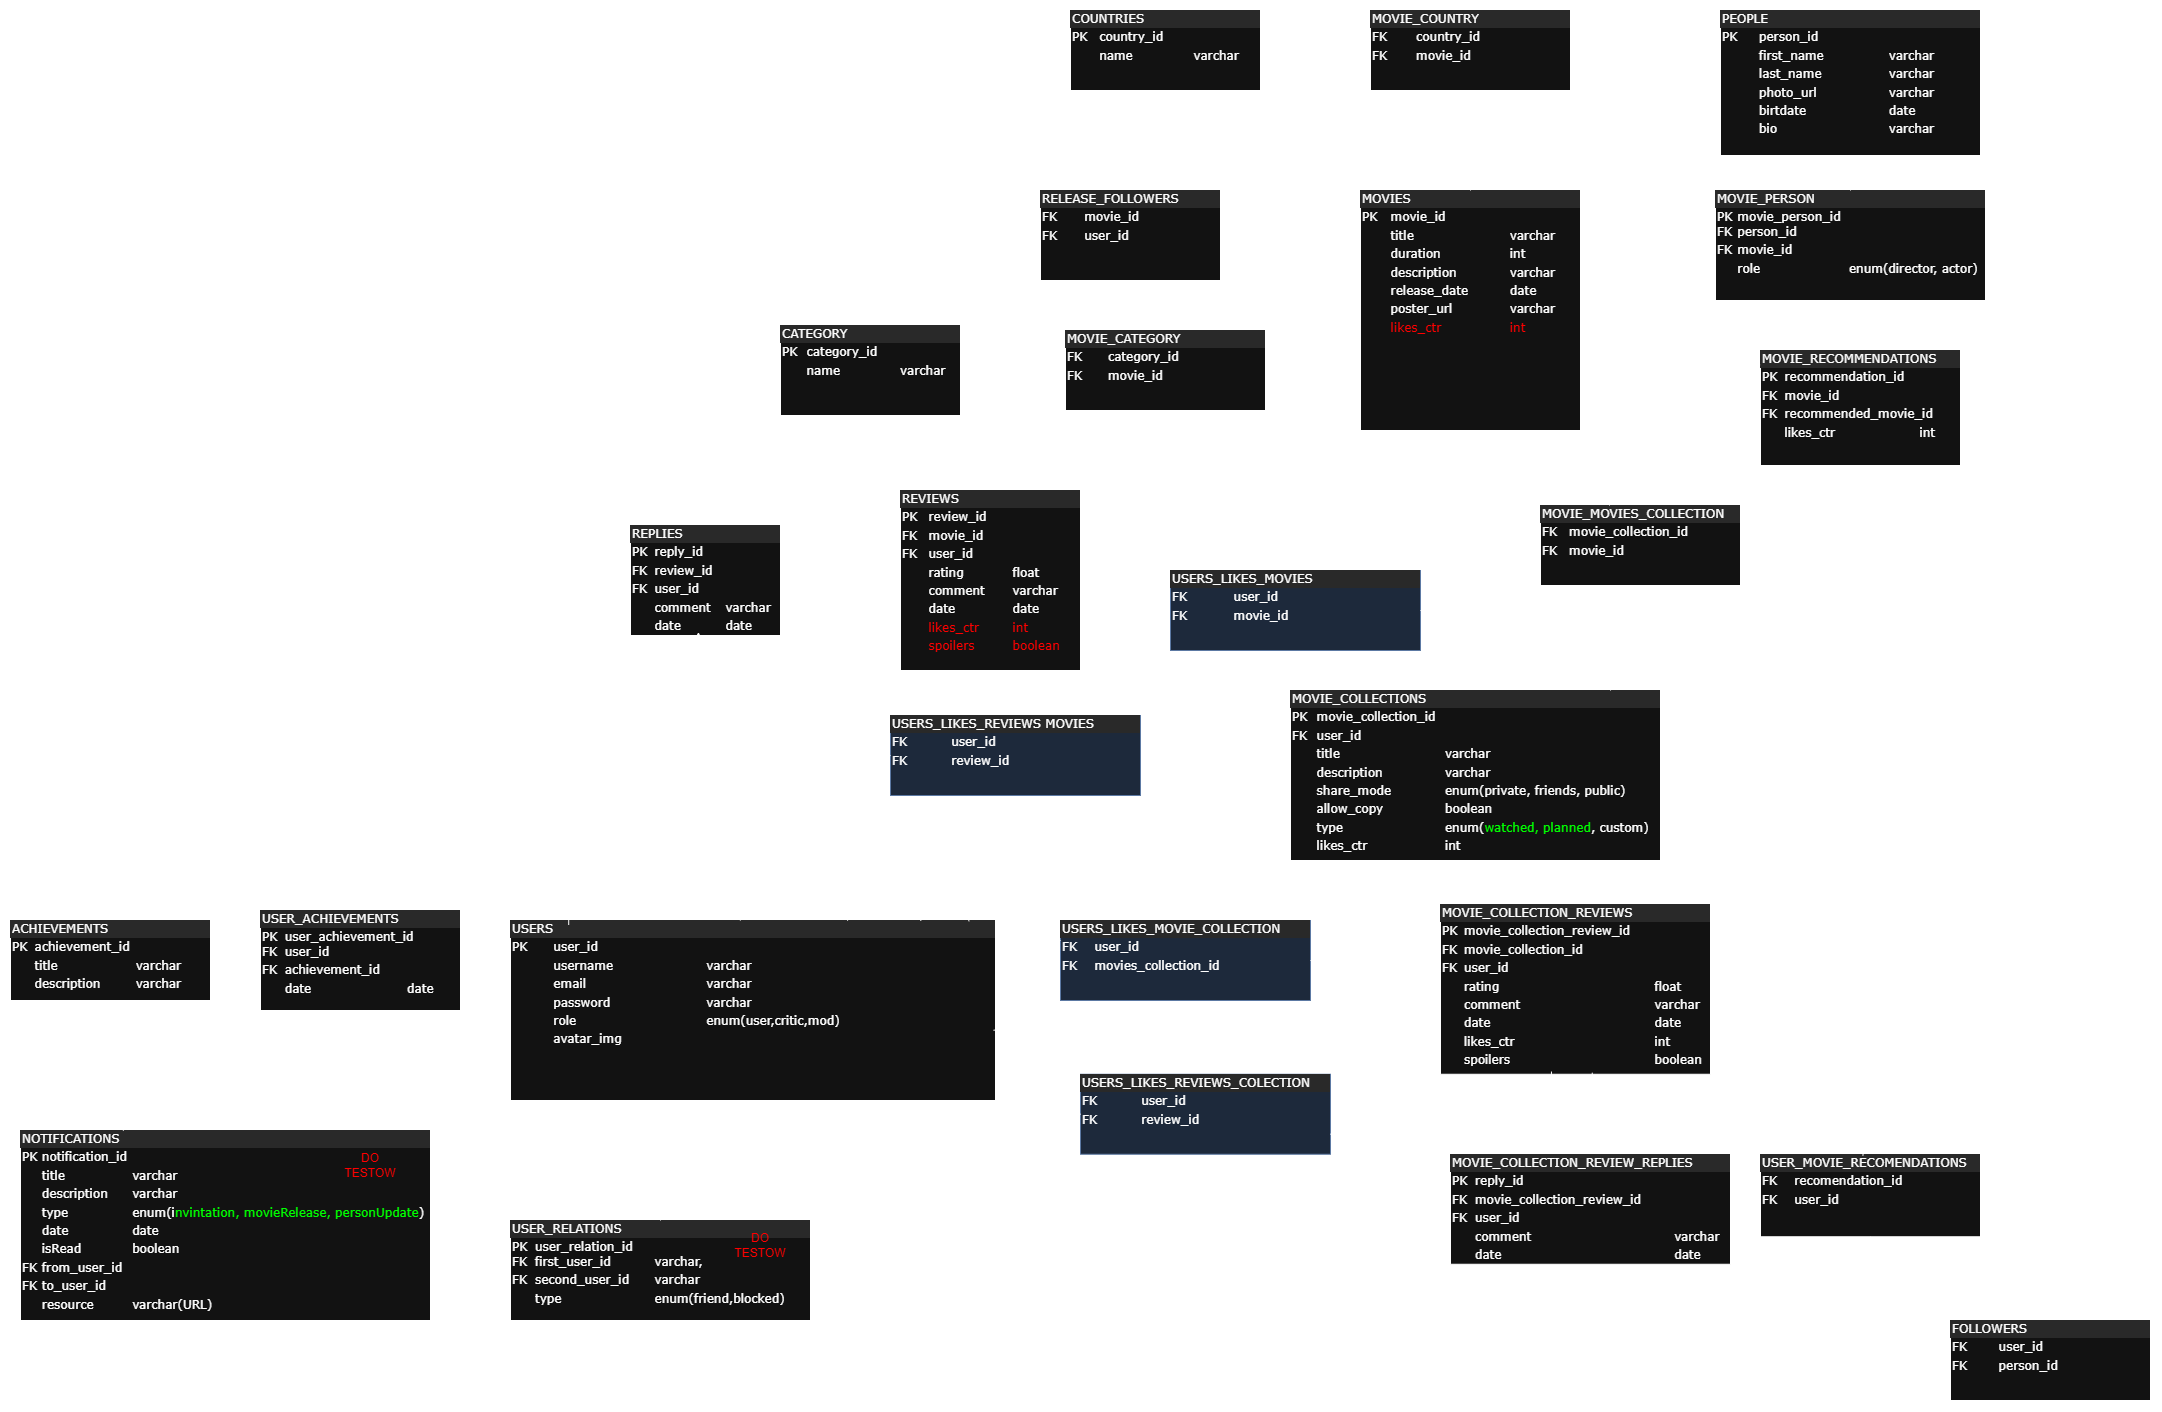
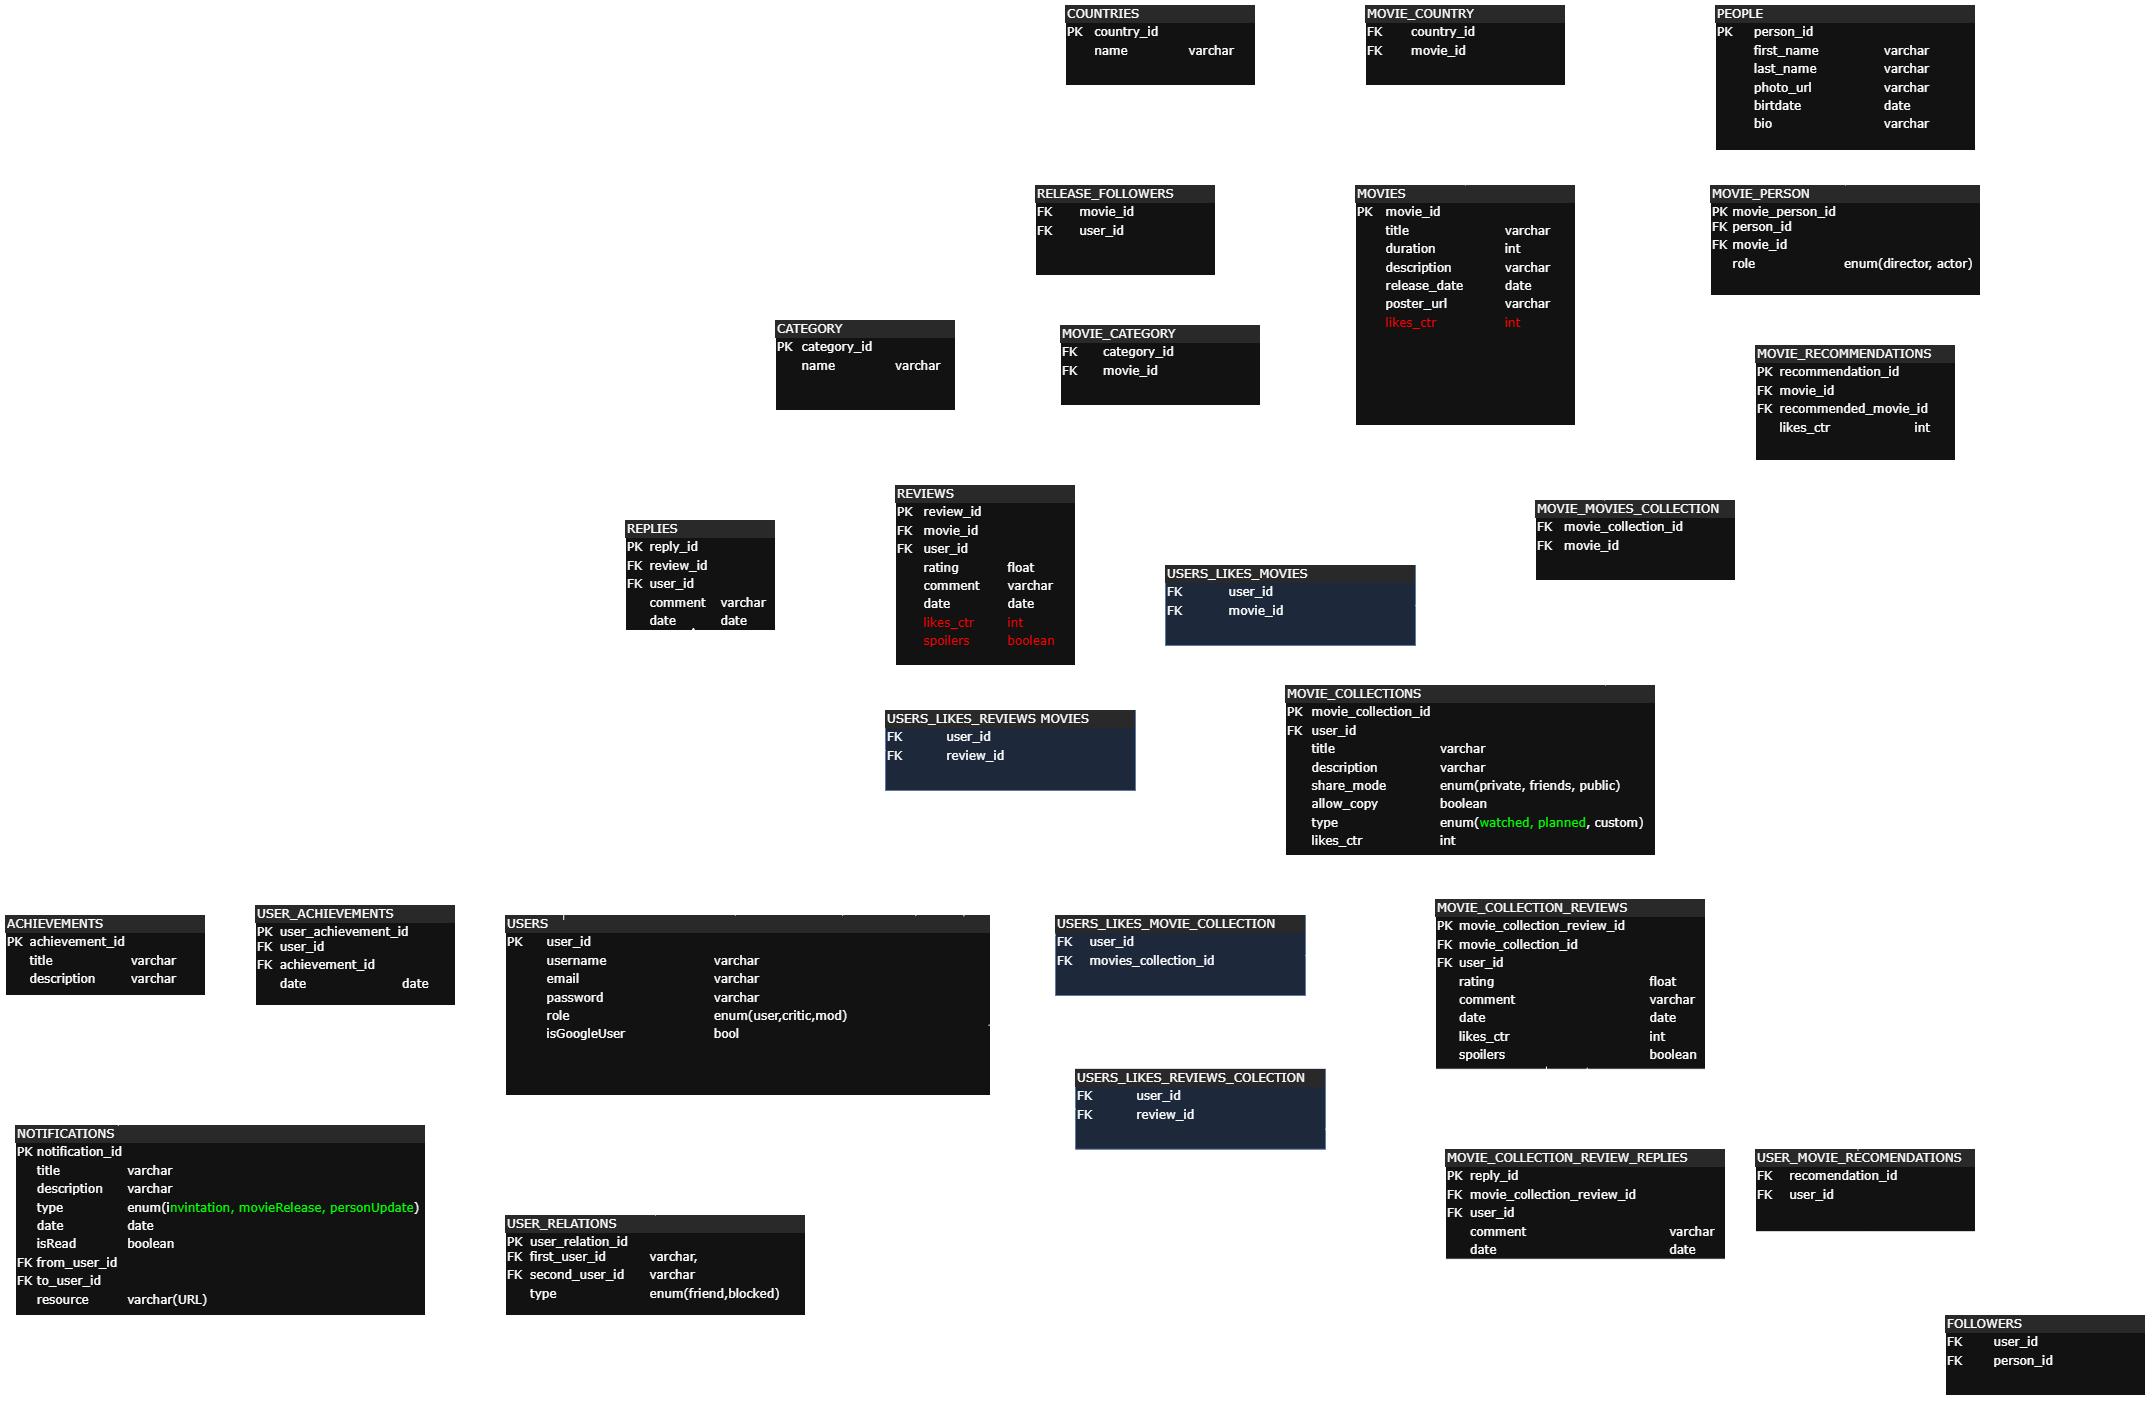
Zabezpieczenia kont google przed edycją oraz utworzeniem na istniejący username
-> Zablokowałem możliwość utworzenia konta google na istniejącą w bazie nazwę użytkownika (zwraca błąd i wyświela na froncie)
-> W przypadku próby zmiany hasła po kliknięciu zmień hasło dostajemy modal ostrzegający, że jest to niemożliwe
-> Dla maila pole zostało wyszarzone oraz została dodana odpowiednia informacja
-> Dodatkowo wszystko jest sprawdzane na backendzie, w razie gdyby ktoś próbował to zmieniać bezpośrednio callem do API
-> DTO usera ma nową opcją IsGoogleUser

diff --git a/Frontend/projekt-filmy-client-app/src/components/User_componets/EditUserModal.tsx b/Frontend/projekt-filmy-client-app/src/components/User_componets/EditUserModal.tsx
@@ -17,6 +17,7 @@ const EditUserModal = ({ show, onClose, userData, onSave }: Props) => {
   const [username, setUsername] = useState(userData.userName);
   const [errorMessage, setErrorMessage] = useState<string | null>(null);
   const [showPasswordModal, setShowPasswordModal] = useState(false);
+  const [showGoogleInfoModal, setShowGoogleInfoModal] = useState(false);
   const navigate = useNavigate();
 
   const handleSave = async (e: React.FormEvent<HTMLFormElement>) => {
@@ -74,25 +75,18 @@ const EditUserModal = ({ show, onClose, userData, onSave }: Props) => {
             {/* Pole edycji email */}
             <Form.Group className="mb-3" controlId="email">
               <Form.Label>Adres e-mail</Form.Label>
-              <Form.Control
-                type="email"
-                placeholder="Wprowadź e-mail"
-                value={email}
-                onChange={(e) => setEmail(e.target.value)}
-                required
-              />
+              <Form.Control type="email" placeholder="Wprowadź e-mail" value={email} onChange={(e) => setEmail(e.target.value)} required disabled={userData.isGoogleUser}/>
+              {userData.isGoogleUser && (
+                <Form.Text className="text-muted">
+                  Adres e-mail jest powiązany z kontem Google i nie może być zmieniony.
+                </Form.Text>
+              )}
             </Form.Group>
 
             {/* Pole edycji nazwy użytkownika */}
             <Form.Group className="mb-3" controlId="username">
               <Form.Label>Nazwa użytkownika</Form.Label>
-              <Form.Control
-                type="text"
-                placeholder="Wprowadź nazwę użytkownika"
-                value={username}
-                onChange={(e) => setUsername(e.target.value)}
-                required
-              />
+              <Form.Control type="text" placeholder="Wprowadź nazwę użytkownika" value={username} onChange={(e) => setUsername(e.target.value)} required/>
             </Form.Group>
 
             {/* Komunikat o błędzie */}
@@ -108,18 +102,39 @@ const EditUserModal = ({ show, onClose, userData, onSave }: Props) => {
           <Button
             variant="outline-secondary"
             className="mt-3 w-100"
-            onClick={() => setShowPasswordModal(true)}
+            onClick={() => {
+              if (userData.isGoogleUser) {
+                setShowGoogleInfoModal(true);
+                return
+              }
+              console.log("tutaj" + userData.isGoogleUser)
+              setShowPasswordModal(true);
+            }}
           >
             Edytuj hasło
           </Button>
         </Modal.Body>
       </Modal>
+      
+      {/* Modal informujący o koncie google gdy chcemy mu zmienić hasło */}
+      <Modal show={showGoogleInfoModal} onHide={() => setShowGoogleInfoModal(false)} centered>
+        <Modal.Header closeButton>
+          <Modal.Title>Informacja</Modal.Title>
+        </Modal.Header>
+        <Modal.Body>
+          <div style={{ display: "flex", alignItems: "center", color: "#dc3545", fontWeight: "bold" }}>
+            To konto zostało utworzone przez logowanie Google OAuth i nie obsługuje zmiany hasła.
+          </div>
+        </Modal.Body>
+        <Modal.Footer>
+          <Button variant="danger" onClick={() => setShowGoogleInfoModal(false)}>
+            OK
+          </Button>
+        </Modal.Footer>
+      </Modal>
 
       {/* Modal do zmiany hasła */}
-      <ChangePasswordModal
-        show={showPasswordModal}
-        onClose={() => setShowPasswordModal(false)}
-      />
+      <ChangePasswordModal show={showPasswordModal} onClose={() => setShowPasswordModal(false)}/>
     </>
   );
 };

diff --git a/Frontend/projekt-filmy-client-app/src/components/SingIn_SignUp_componets/GoogleLoginButton.tsx b/Frontend/projekt-filmy-client-app/src/components/SingIn_SignUp_componets/GoogleLoginButton.tsx
@@ -50,8 +50,11 @@ const GoogleLoginButton = ({ onLoginSuccess, onError, onClose }: Props) => {
       onLoginSuccess(response.data.userName);
       setShowPrompt(false);
       onClose?.();
-    } catch (error) {
-      onError?.("Nie udało się ukończyć rejestracji przez Google.");
+    } catch (error: any) {
+      setShowPrompt(false);
+      console.error(error)
+      const message = error.response?.data ?? "Nie udało się ukończyć rejestracji przez Google.";
+      onError?.(message);
     }
   };
 

diff --git a/Frontend/projekt-filmy-client-app/src/models/UserProfile.ts b/Frontend/projekt-filmy-client-app/src/models/UserProfile.ts
@@ -5,6 +5,7 @@ export interface UserProfile {
   userRole: userRole;
   reviewsCount: number;
   isOwner: boolean; //Czy uzytkownik ktory to przeglada jest wlasicicielem profilu
+  isGoogleUser: boolean; //Czy user jest logowany przez konto google
 }
 
 export enum userRole {

diff --git a/Backend/MoviesWebApplication/MoviesWebApplication/Controllers/AccountController.cs b/Backend/MoviesWebApplication/MoviesWebApplication/Controllers/AccountController.cs
@@ -96,7 +96,11 @@ namespace MoviesWebApplication.Controllers
             {
                 return NotFound("Nie znaleziono użytkownika.");
             }
-                
+
+            if (user.IsGoogleUser && !string.IsNullOrEmpty(editUserDto.NewEmail) && !(user.Email == editUserDto.NewEmail))
+            {
+                return BadRequest("Nie można edytować adresu e-mail dla konta Google.");
+            }
 
             //Aktualizacja e-maila
             if (!string.IsNullOrEmpty(editUserDto.NewEmail))
@@ -162,6 +166,11 @@ namespace MoviesWebApplication.Controllers
                 return NotFound("Nie znaleziono użytkownika.");
             }
 
+            if (user.IsGoogleUser)
+            {
+                return BadRequest(new { Errors = new List<string> { "Nie można zmienić hasła dla konta Google." } });
+            }
+
             var passwordVerificationResult = _userManager.PasswordHasher.VerifyHashedPassword(user, user.PasswordHash, changePasswordDto.NewPassword);
             if (passwordVerificationResult == PasswordVerificationResult.Success)
             {
@@ -203,6 +212,11 @@ namespace MoviesWebApplication.Controllers
                 if (string.IsNullOrWhiteSpace(dto.UserName))
                 {
                     return BadRequest("Brakuje nazwy użytkownika do rejestracji.");
+                }
+
+                if (await _userManager.Users.AnyAsync(x => x.UserName == dto.UserName))
+                {
+                    return BadRequest("Nazwa jest zajęta!");
                 }
 
                 user = new User

diff --git a/Backend/MoviesWebApplication/Movies.Application/Users/UserByUserName.cs b/Backend/MoviesWebApplication/Movies.Application/Users/UserByUserName.cs
@@ -59,7 +59,8 @@ namespace Movies.Application.Users
                     Email = user.Email,
                     UserRole = user.UserRole,
                     ReviewsCount = user.Reviews?.Count ?? 0,
-                    IsOwner = isOwner
+                    IsOwner = isOwner,
+                    IsGoogleUser = user.IsGoogleUser
                 };
             }
         }

diff --git a/Backend/MoviesWebApplication/Movies.Domain/DTOs/UserProfileDto.cs b/Backend/MoviesWebApplication/Movies.Domain/DTOs/UserProfileDto.cs
@@ -17,5 +17,6 @@ namespace Movies.Domain.DTOs
         //Nowe pola
         public int ReviewsCount { get; set; } //Liczba dodanych recenzji
         public bool IsOwner { get; set; } //Pole czy user jest wlascicielem tego profilu
+        public bool IsGoogleUser { get; set; } //Pole czy user ma konto tworzone przez autentykacje google
     }
 }
